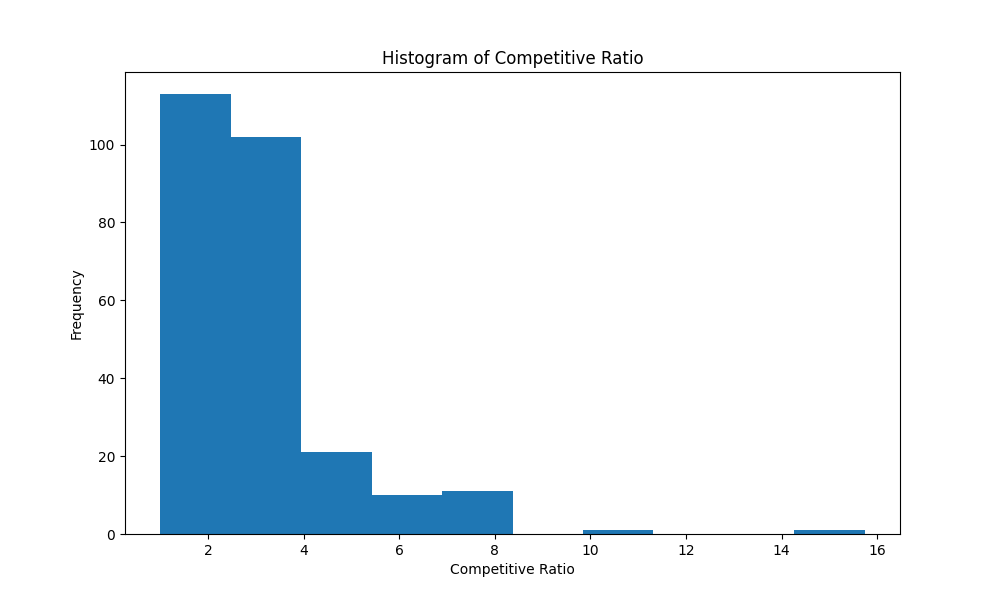
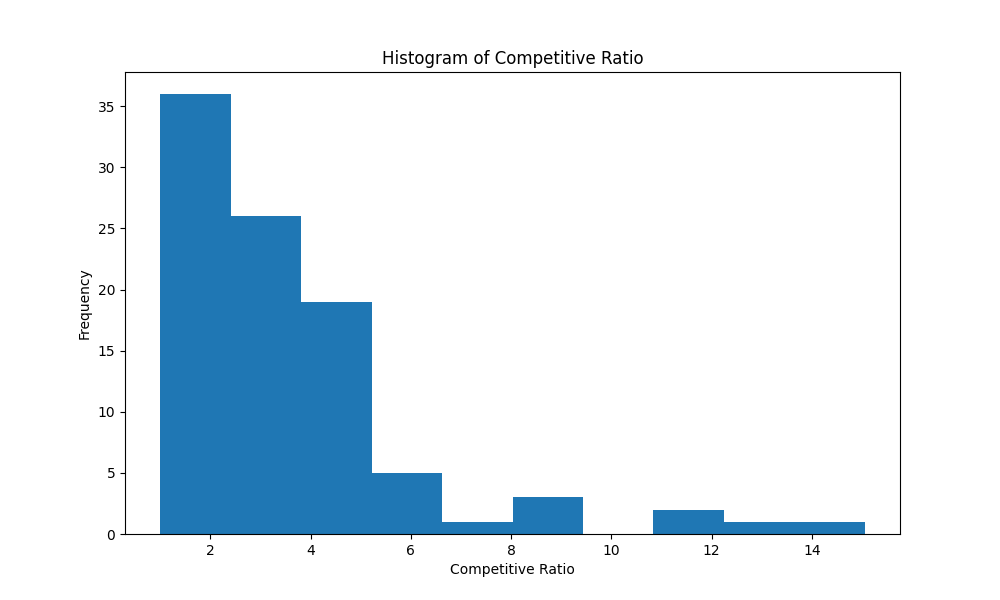
Fixed delauney degenerate case. Changed inference fori_loop to lax.scan

diff --git a/Evaluation/inference.py b/Evaluation/inference.py
@@ -18,7 +18,7 @@ import matplotlib.pyplot as plt
 import numpy as np
 import wandb
 
-FACTOR_TO_MULTIPLY_INFERENCE_TIMESTEPS = 1000
+FACTOR_TO_MULTIPLY_INFERENCE_TIMESTEPS = 100
 
 
 def plotting_inference(
@@ -66,22 +66,97 @@ def plotting_inference(
     init_key, action_key, env_key = jax.vmap(jax.random.PRNGKey)(
         jnp.arange(3) + args.random_seed_for_inference
     )
-    env_state, belief_state = environment.reset(init_key)
+    new_env_state, new_belief_state = environment.reset(init_key)
 
-    # def _fori_inference(i: int, val: tuple):
-    val = (
-        action_key,
+    def _one_step_inference(runner_state, unused):
+        (
+            new_env_state,
+            current_belief_state,
+            key,
+            timestep_in_episode,
+        ) = runner_state
+        action_key, env_key = jax.random.split(key, 2)
+        current_env_state = new_env_state
+        # Agent acts
+        action, action_key = agent.act(
+            action_key, model_params, current_belief_state, 0
+        )
+        action = jnp.array([action])
+        new_env_state, new_belief_state, reward, done, env_key = environment.step(
+            env_key, new_env_state, current_belief_state, action
+        )
+        action = action[0]
+
+        # Stop the episode and reset if exceed horizon length
+        env_key, reset_key = jax.random.split(env_key)
+        # Reset timestep if finish episode
+        timestep_in_episode = jax.lax.cond(
+            done, lambda _: 0, lambda _: timestep_in_episode, operand=None
+        )
+        # Reset if exceed horizon length. Otherwise, increment
+        new_env_state, new_belief_state, reward, timestep_in_episode, done = (
+            jax.lax.cond(
+                timestep_in_episode >= args.horizon_length_factor * args.n_node,
+                lambda _: (
+                    *environment.reset(reset_key),
+                    jnp.float16(args.reward_exceed_horizon),
+                    0,
+                    True,
+                ),
+                lambda _: (
+                    new_env_state,
+                    new_belief_state,
+                    reward,
+                    timestep_in_episode + 1,
+                    done,
+                ),
+                operand=None,
+            )
+        )
+
+        goal = jnp.unravel_index(
+            jnp.argmax(current_env_state[3, 1:, :]),
+            (environment.num_nodes, environment.num_nodes),
+        )[0]
+        origin = get_origin_expensive_edge(current_belief_state)
+        shortest_path = jax.lax.cond(
+            done,
+            lambda _: dijkstra_shortest_path(
+                current_env_state,
+                jnp.array([origin]),
+                jnp.array([goal]),
+            ),
+            lambda _: 0.0,
+            operand=None,
+        )
+        position = jnp.argmax(current_env_state[0, : args.n_agent]).astype(jnp.int8)
+
+        runner_state = (
+            new_env_state,
+            new_belief_state,
+            env_key,
+            timestep_in_episode,
+        )
+        transition = (done, action, reward, shortest_path, position)
+        return runner_state, transition
+
+    runner_state = (
+        new_env_state,
+        new_belief_state,
         env_key,
-        env_state,
-        belief_state,
-        test_all_actions,
-        test_all_positions,
-        test_all_rewards,
-        test_all_done,
-        test_all_optimal_path_lengths,
-        0,
+        jnp.int32(0),
     )
-    for i in range(5000):
+    runner_state, inference_traj_batch = jax.lax.scan(
+        _one_step_inference, runner_state, None, num_steps_for_inference
+    )
+    test_all_done = inference_traj_batch[0]
+    test_all_actions = inference_traj_batch[1]
+    test_all_rewards = inference_traj_batch[2]
+    test_all_optimal_path_lengths = inference_traj_batch[3]
+    test_all_positions = inference_traj_batch[4]
+
+    """
+    def _fori_inference(i: int, val: tuple):
         (
             action_key,
             env_key,
@@ -167,7 +242,6 @@ def plotting_inference(
             test_all_optimal_path_lengths,
             timestep_in_episode,
         )
-    """
         return val
 
     testing_val_init = (

diff --git a/Environment/CTP_generator.py b/Environment/CTP_generator.py
@@ -114,8 +114,7 @@ class CTPGraph:
 
         def __on_same_line(grid_nodes):
             # Extract x and y coordinates
-            x_coords = grid_nodes[:, 0]
-            y_coords = grid_nodes[:, 1]
+            x_coords, y_coords = grid_nodes
             # Check if all x-coordinates or all y-coordinates are the same
             all_same_x = jnp.all(x_coords == x_coords[0])
             all_same_y = jnp.all(y_coords == y_coords[0])
@@ -156,14 +155,12 @@ class CTPGraph:
         node_pos = jax.random.choice(key, xmax * ymax, (self.n_nodes,), replace=False)
         grid_nodes = jax.vmap(__convert_to_grid, in_axes=(0, None))(node_pos, ymax)
         # Check that not all points are on the same line (have the same x or y coordinate)
-        """
         grid_nodes = jax.lax.cond(
             __on_same_line(grid_nodes),
             lambda key: __resample(key),
             lambda _: grid_nodes,
             key,
         )
-        """
 
         grid_nodes_jax = jnp.array(grid_nodes, dtype=jnp.float16).T
 

diff --git a/Evaluation/plotting.py b/Evaluation/plotting.py
@@ -60,7 +60,7 @@ def save_data_and_plotting(
         df.groupby("episode")
         .agg("sum")
         .astype(np.float32)
-        .round({"reward": 2, "optimal_path_length": 2})
+        .round({"reward": 3, "optimal_path_length": 3})
     )
     episodes_df = episodes_df.iloc[:-1]
     episodes_df["regret"] = (
